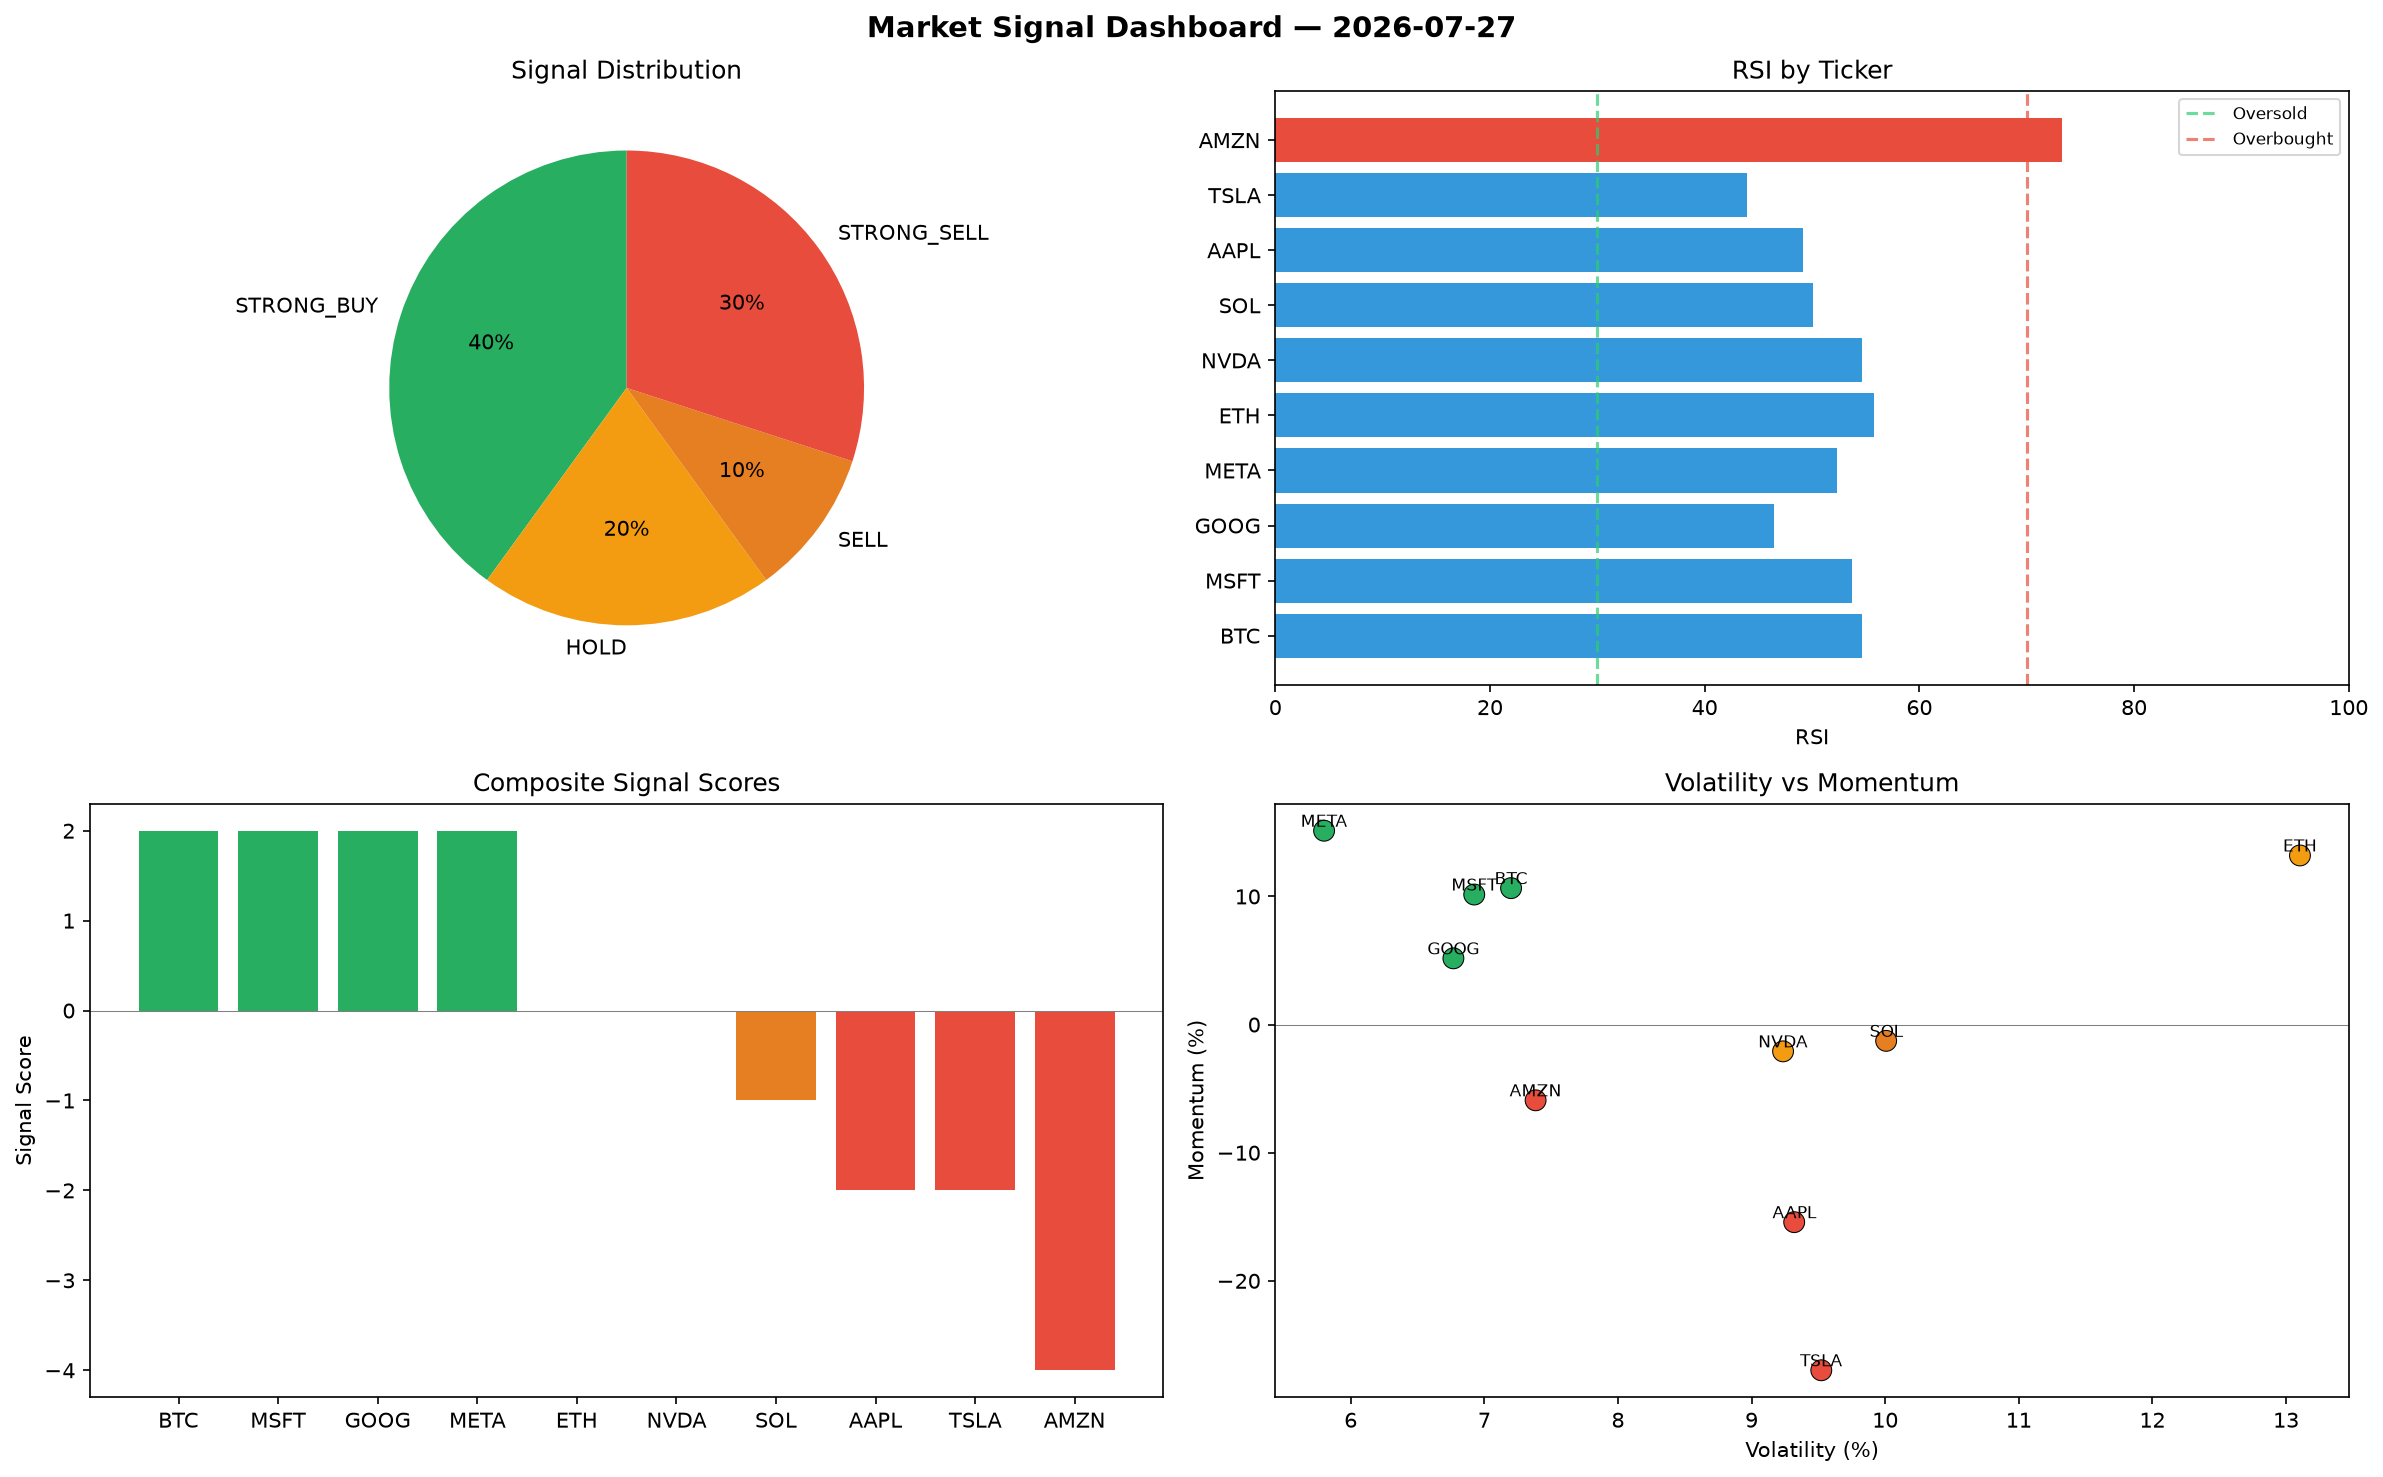
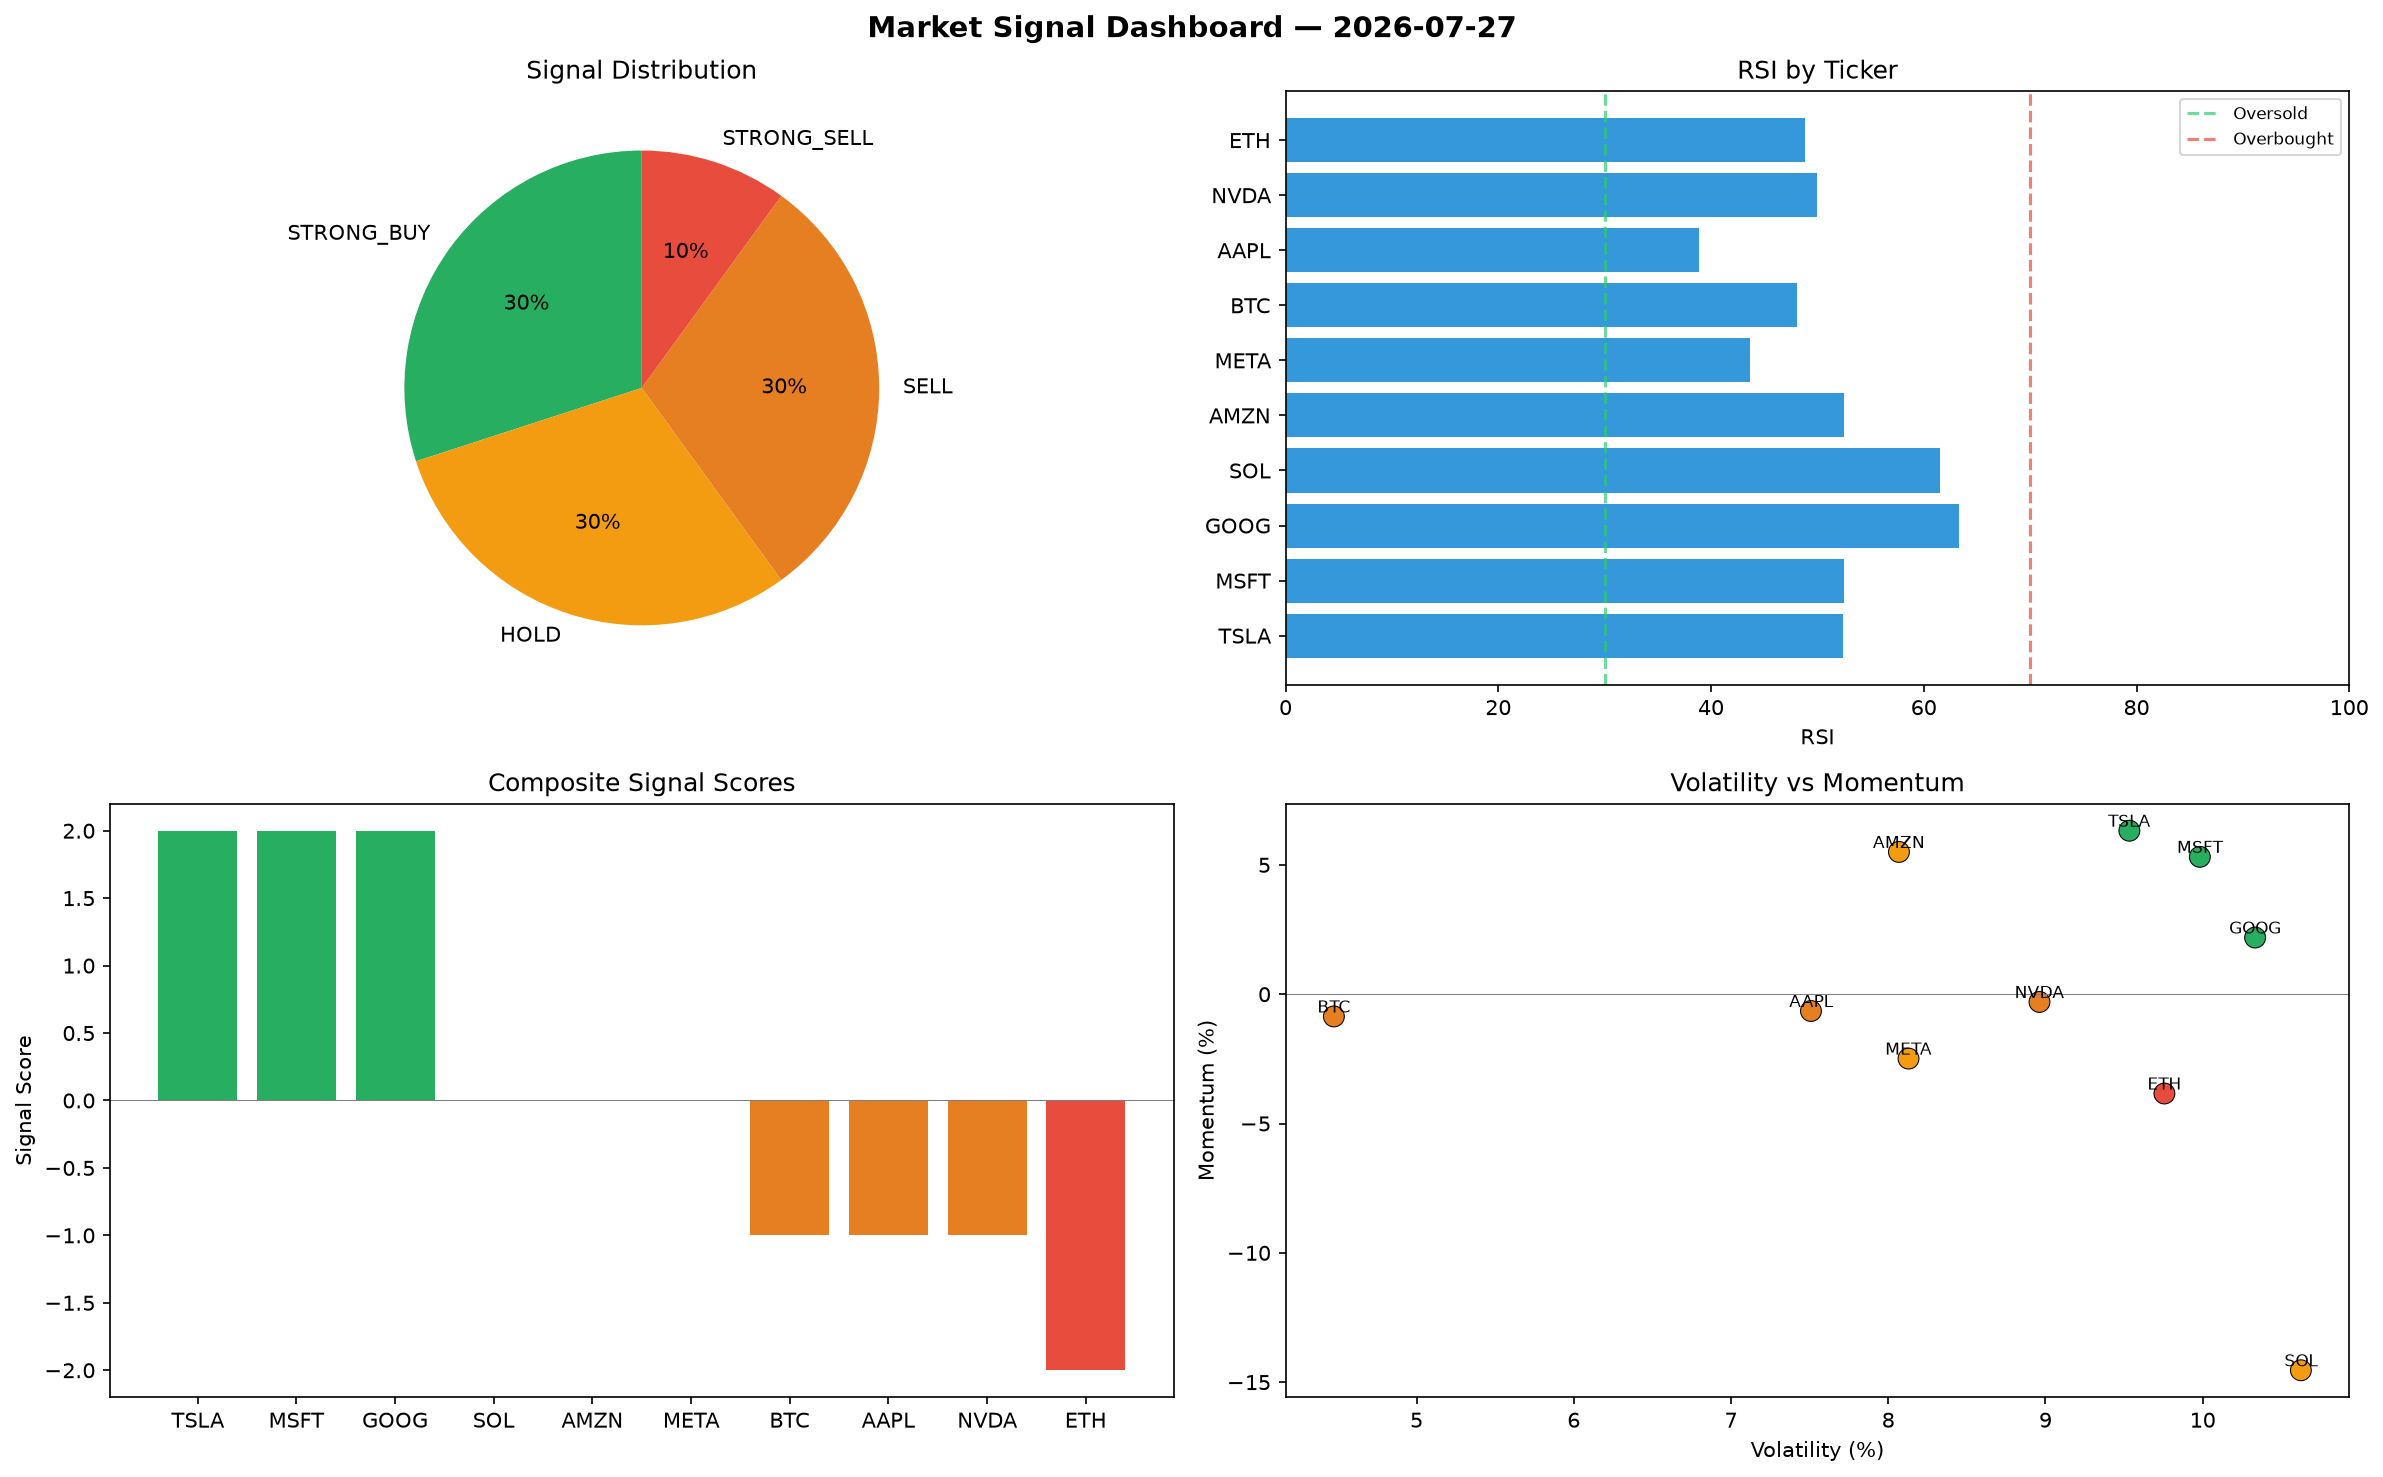
automated-bots: market signals 2026-07-27T21:34

diff --git a/logs/2026-07-27.md b/logs/2026-07-27.md
@@ -1,6 +1,6 @@
 # Market Signal Report — 2026-07-27
 
-**Run ID:** `b3db3f9888` | **Buy:** 4 | **Sell:** 4 | **Hold:** 2
+**Run ID:** `d8e08552db` | **Buy:** 3 | **Sell:** 4 | **Hold:** 3
 
 ![Dashboard](2026-07-27_dashboard.png)
 
@@ -8,28 +8,28 @@
 
 | Ticker | Price | Signal | Score | RSI | Momentum | Confidence |
 |--------|-------|--------|-------|-----|----------|------------|
-| BTC | $3101.85 | **STRONG_BUY** | 2 | 54.69 | 0.1065 | 0.5 |
-| MSFT | $854.15 | **STRONG_BUY** | 2 | 53.74 | 0.1015 | 0.5 |
-| GOOG | $1957.46 | **STRONG_BUY** | 2 | 46.48 | 0.0517 | 0.5 |
-| META | $2676.63 | **STRONG_BUY** | 2 | 52.37 | 0.1513 | 0.5 |
-| ETH | $3011.13 | **HOLD** | 0 | 55.78 | 0.132 | 0.0 |
-| NVDA | $4250.68 | **HOLD** | 0 | 54.65 | -0.0209 | 0.0 |
-| SOL | $3290.72 | **SELL** | -1 | 50.05 | -0.0127 | 0.25 |
-| AAPL | $1089.37 | **STRONG_SELL** | -2 | 49.13 | -0.1542 | 0.5 |
-| TSLA | $402.13 | **STRONG_SELL** | -2 | 43.95 | -0.2698 | 0.5 |
-| AMZN | $2908.19 | **STRONG_SELL** | -4 | 73.28 | -0.0591 | 1.0 |
+| TSLA | $3197.73 | **STRONG_BUY** | 2 | 52.39 | 0.0632 | 0.5 |
+| MSFT | $186.5 | **STRONG_BUY** | 2 | 52.54 | 0.0531 | 0.5 |
+| GOOG | $259.86 | **STRONG_BUY** | 2 | 63.29 | 0.0219 | 0.5 |
+| SOL | $510.14 | **HOLD** | 0 | 61.51 | -0.1454 | 0.0 |
+| AMZN | $1531.24 | **HOLD** | 0 | 52.5 | 0.055 | 0.0 |
+| META | $3074.94 | **HOLD** | 0 | 43.64 | -0.0249 | 0.0 |
+| BTC | $2851.19 | **SELL** | -1 | 48.08 | -0.0086 | 0.25 |
+| AAPL | $2005.14 | **SELL** | -1 | 38.89 | -0.0065 | 0.25 |
+| NVDA | $1364.76 | **SELL** | -1 | 49.94 | -0.003 | 0.25 |
+| ETH | $3444.11 | **STRONG_SELL** | -2 | 48.88 | -0.0384 | 0.5 |
 
 ## Delta vs Yesterday
 
 | Ticker | Today | Yesterday | Price Change | Signal Changed |
 |--------|-------|-----------|-------------|----------------|
-| BTC | STRONG_BUY | SELL | 📈 100.13% | ⚠ YES |
-| MSFT | STRONG_BUY | STRONG_SELL | 📉 -69.63% | ⚠ YES |
-| GOOG | STRONG_BUY | SELL | 📉 -48.37% | ⚠ YES |
-| META | STRONG_BUY | STRONG_BUY | 📈 1346.91% | — |
-| ETH | HOLD | STRONG_BUY | 📉 -33.98% | ⚠ YES |
-| NVDA | HOLD | STRONG_SELL | 📈 435.76% | ⚠ YES |
-| SOL | SELL | BUY | 📈 19.71% | ⚠ YES |
-| AAPL | STRONG_SELL | SELL | 📉 -66.38% | ⚠ YES |
-| TSLA | STRONG_SELL | STRONG_BUY | 📉 -84.89% | ⚠ YES |
-| AMZN | STRONG_SELL | STRONG_SELL | 📉 -17.55% | — |
+| TSLA | STRONG_BUY | STRONG_BUY | 📈 20.12% | — |
+| MSFT | STRONG_BUY | STRONG_SELL | 📉 -93.37% | ⚠ YES |
+| GOOG | STRONG_BUY | SELL | 📉 -93.15% | ⚠ YES |
+| SOL | HOLD | BUY | 📉 -81.44% | ⚠ YES |
+| AMZN | HOLD | STRONG_SELL | 📉 -56.59% | ⚠ YES |
+| META | HOLD | STRONG_BUY | 📈 1562.22% | ⚠ YES |
+| BTC | SELL | SELL | 📈 83.96% | — |
+| AAPL | SELL | SELL | 📉 -38.12% | — |
+| NVDA | SELL | STRONG_SELL | 📈 72.02% | ⚠ YES |
+| ETH | STRONG_SELL | STRONG_BUY | 📉 -24.49% | ⚠ YES |
